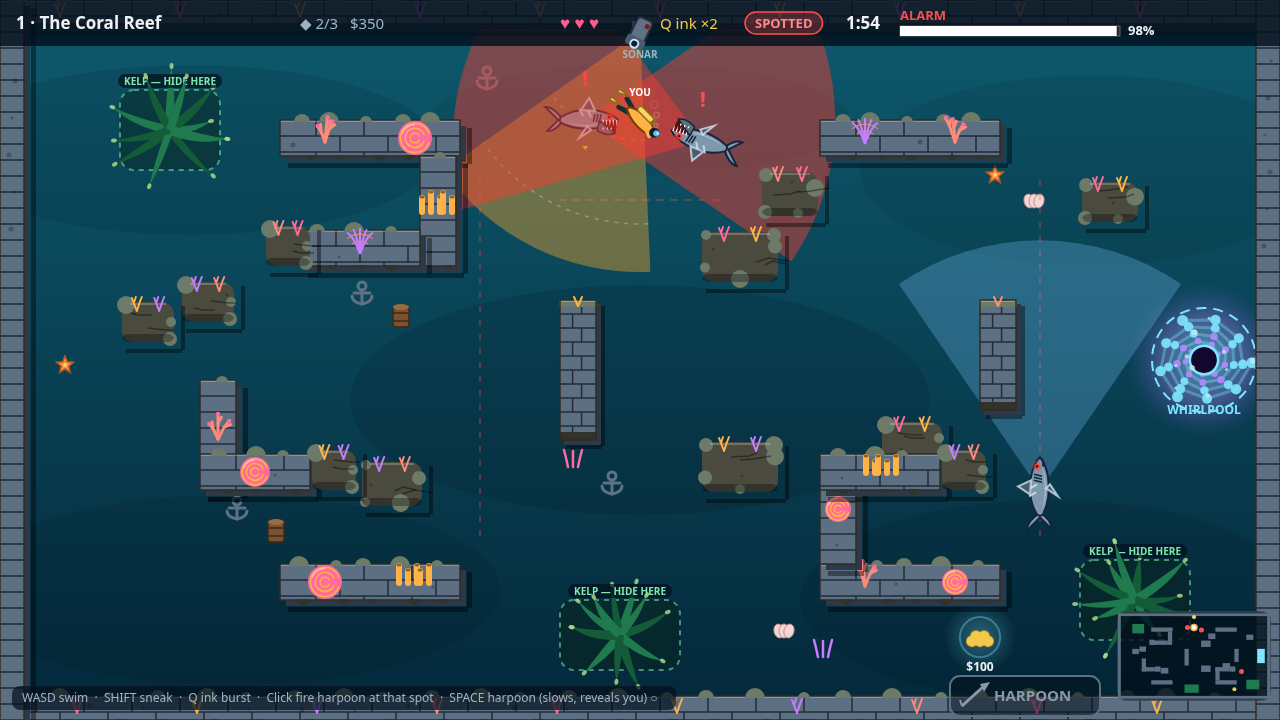
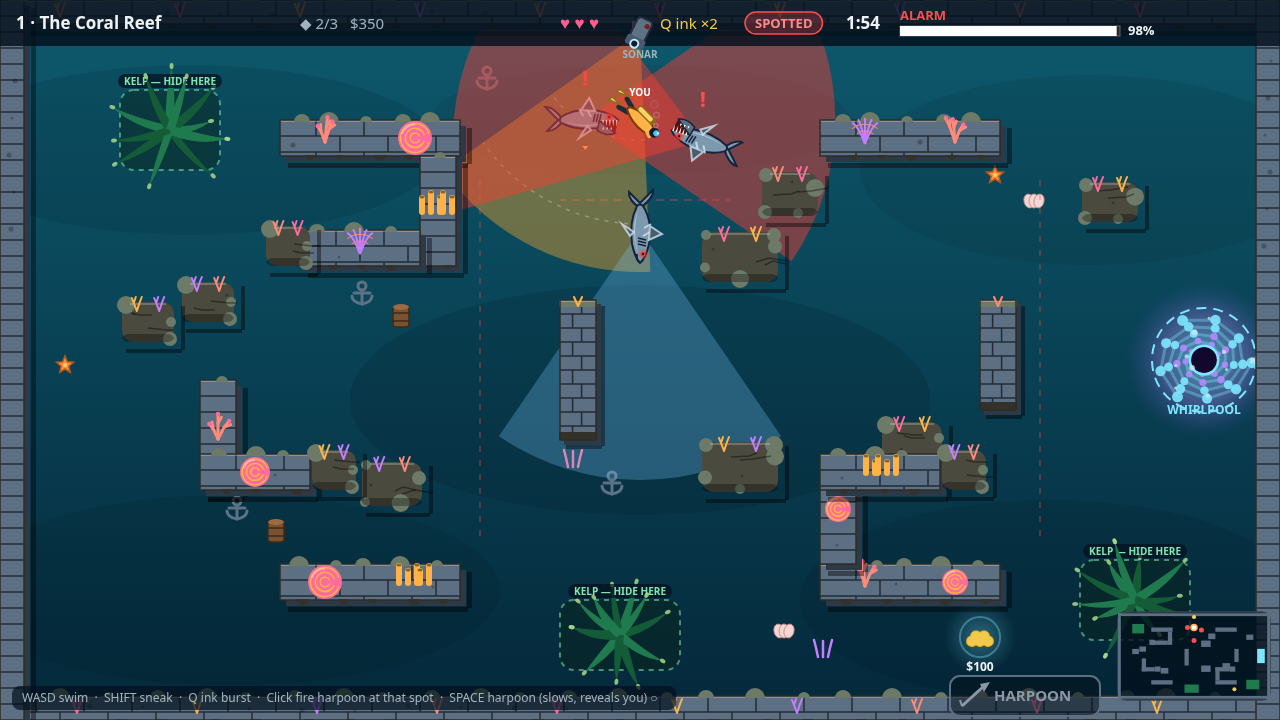
Sunken Vault: tight shark cluster in the cover, all three sharks read at a glance

Changed region(s): [[0.6875, 0.3361, 0.9375, 0.7028], [0.375, 0.275, 0.625, 0.6722]]

diff --git a/game/src/shots.js b/game/src/shots.js
@@ -184,53 +184,66 @@ export function stageShot(id) {
   }
   if (id === 'play') {
     runPilot(world, 2.5, false);
-    // The cover must read "many sharks" in one second: park the diver in open
-    // water and bring all three reef sharks in close around them — two chasing
-    // with red cones, one winding up with jaws half open and teeth showing —
-    // and a harpoon already in flight toward it. Staging only: the game
-    // itself is untouched (same patrols, same rules, same walls). Each shark
-    // sits in open water with a clear sight line to the diver, so the cones
-    // really point at them and the wind-up is real game logic, not a pose.
+    // The cover must read "many sharks" in one second ON A PHONE: park the
+    // diver DEAD CENTRE and pull all three reef sharks into a tight knot
+    // around them — each within ~105px — so the three bodies, three red
+    // cones and three "!" marks form one dominant cluster in the middle of
+    // the frame, instead of three small sharks lost across it. Staging only:
+    // the game itself is untouched (same patrols, same rules, same walls).
+    // Each shark sits in open water with a clear sight line to the diver, so
+    // the cones really point at them and the wind-up is real game logic.
     const p = world.state.player;
-    p.x = 530;
-    p.y = 210;
+    p.x = 640;
+    p.y = 350;
     p.dirX = 1;
     p.dirY = 0;
+    // The pilot may have left the gun cooling down or a spear in flight;
+    // clear both so the staged shot is the only spear in the frame.
+    world.state.harpoonCooldown = 0;
+    world.state.harpoons = [];
     const sharks = world.state.sharks;
-    // Left-below: clear sight under the winding chain's corner.
-    sharks[0].x = 400;
-    sharks[0].y = 320;
-    sharks[0].dir = Math.atan2(p.y - 320, p.x - 400);
-    sharks[0].state = 'chase';
+    // Above: winding up with 0.15s left, so it is a breath into its lunge —
+    // jaws wide open, teeth out — when the shutter falls.
+    sharks[0].x = 640;
+    sharks[0].y = 245;
+    sharks[0].dir = Math.PI / 2;
+    sharks[0].state = 'windup';
+    sharks[0].windupTimer = 0.15;
     sharks[0].suspicion = 1;
     sharks[0].loseTimer = 99;
     sharks[0].attackCooldown = 0;
     sharks[0].lastSeen = { x: p.x, y: p.y };
-    // Top-right: winding up, jaws half open, teeth out, pulsing red ring.
-    sharks[1].x = 680;
-    sharks[1].y = 180;
-    sharks[1].dir = Math.atan2(p.y - 180, p.x - 680);
-    sharks[1].state = 'windup';
-    sharks[1].windupTimer = SHARK.windupSeconds;
+    // Right: chasing, so close it winds up on the first step — jaws half
+    // open, red cone, "!" — and the diver's spear flies straight at it.
+    sharks[1].x = 745;
+    sharks[1].y = 350;
+    sharks[1].dir = Math.PI;
+    sharks[1].state = 'chase';
     sharks[1].suspicion = 1;
     sharks[1].loseTimer = 99;
     sharks[1].attackCooldown = 0;
     sharks[1].lastSeen = { x: p.x, y: p.y };
-    // Right-below: clear sight over the top of the mid pillar.
-    sharks[2].x = 640;
-    sharks[2].y = 330;
-    sharks[2].dir = Math.atan2(p.y - 330, p.x - 640);
+    // Below: chasing on a long attack cooldown, so it NEVER winds up during
+    // the shot — it keeps swimming at the diver, and a hunting shark is
+    // what keeps the HUD on SPOTTED and the alarm climbing while the other
+    // two are mid-attack (mid-attack sharks do not detect). It starts a
+    // little further out and closes to ~85px by the shutter.
+    sharks[2].x = 675;
+    sharks[2].y = 480;
+    sharks[2].dir = Math.atan2(p.y - 480, p.x - 675);
     sharks[2].state = 'chase';
     sharks[2].suspicion = 1;
     sharks[2].loseTimer = 99;
-    sharks[2].attackCooldown = 0;
+    sharks[2].attackCooldown = 0.5;
     sharks[2].lastSeen = { x: p.x, y: p.y };
-    // The diver shoots first: a spear toward the winding-up shark, caught
-    // mid-flight in the frame — a long bright spear, still well short of
-    // the shark. Two tenths of a second of flight puts it clearly in the
-    // open water between diver and shark.
-    world.step(STEP, { x: 0, y: 0, sneak: false, ink: false, fire: true, aimX: 680, aimY: 180 }, false);
-    runSteps(world, 0.2, IDLE);
+    // Twelve steps total: six idle, then the diver shoots at the shark on
+    // the right, then five more. The wind-up above finishes and the shark
+    // is a breath into its lunge, the right shark is mid-wind-up, the
+    // shark below has closed in — and the spear is still in flight, about
+    // 30px short of its target, so it reads in the frame.
+    runSteps(world, 0.1, IDLE);
+    world.step(STEP, { x: 0, y: 0, sneak: false, ink: false, fire: true, aimX: 745, aimY: 350 }, false);
+    runSteps(world, 0.083, IDLE);
     return { type: SCREEN_PLAY, world };
   }
   if (id === 'sneak') {
@@ -270,6 +283,18 @@ export function stageShot(id) {
     shark2.loseTimer = 99;
     shark2.attackCooldown = 0;
     shark2.lastSeen = { x: 640, y: 120 };
+    // The third shark joins the knot: parked just below the diver, facing
+    // away (blue cone pointing down, held still on a long pause), so it
+    // reads as a third big body in the group without adding to the alarm —
+    // the two attackers above still do the lunging.
+    const shark3 = world.state.sharks[2];
+    shark3.x = 640;
+    shark3.y = 230;
+    shark3.dir = Math.PI / 2;
+    shark3.state = 'patrol';
+    shark3.pauseTimer = 99;
+    shark3.suspicion = 0;
+    shark3.lastSeen = { x: 640, y: 230 };
     // The diver shoots first: the harpoon hit tells the shark exactly where
     // the diver is (so it comes straight for them) and slows it down — the
     // new trade-off, caught in the frame as a lunging shark with a gold slow
